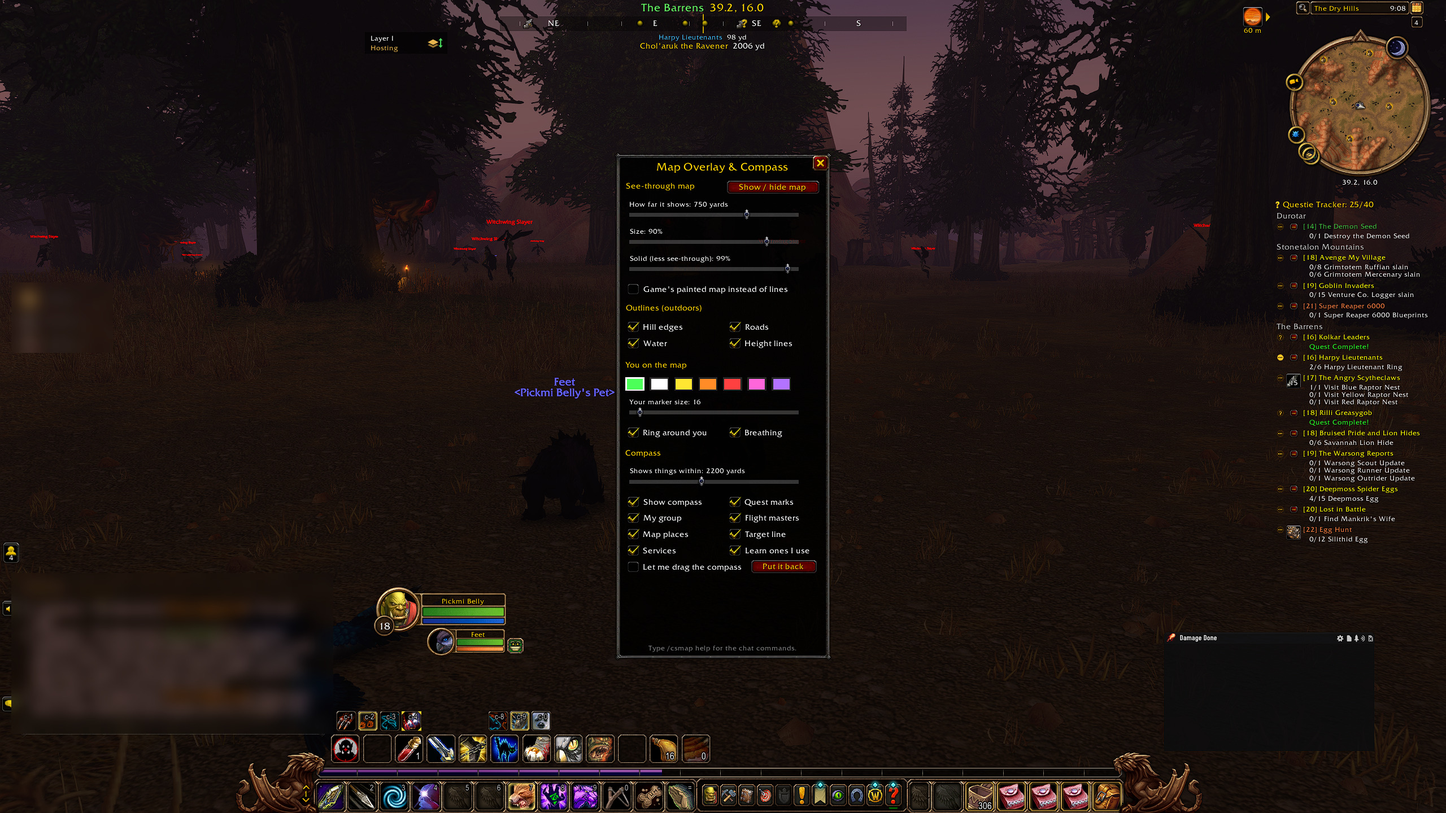
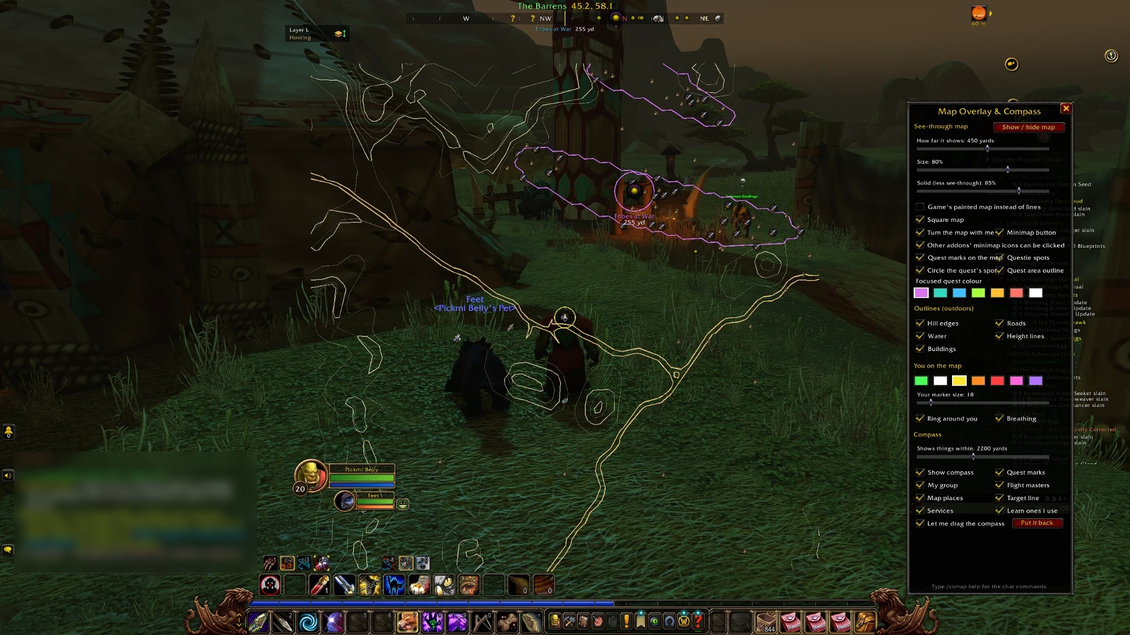
Download page for 0.12.0

diff --git a/README.md b/README.md
@@ -15,34 +15,26 @@ It's also coming to CurseForge as "Map Overlay & Compass"; once it's there, Curs
 
 ## Screenshots
 
-**Outdoors: hills, roads and water as clean lines**, laid over the game. Clicks go straight through to the world.
+**Roads, hills and buildings as clean lines**, laid over the game. Zoomed in to 350 yards in Camp Taurajo you see the
+roads and the outline of every building around you. Clicks go straight through to the world.
 
-![Outlines over the Barrens](screenshots/screenshot-2.jpg)
+![Roads and buildings in Camp Taurajo](screenshots/screenshot-3.jpg)
 
 **Your focused quest's whole area** outlined in your colour, with Questie's own icons for the mobs to kill.
 
-![Quest area and Questie icons](screenshots/screenshot-8.jpg)
+![Quest area and Questie icons](screenshots/screenshot-1.jpg)
 
-**Zoomed in to 350 yards in a camp:** roads and the outlines of the buildings around you.
+**Focus a quest from the map:** double-click or hold its mark.
 
-![Roads and buildings in Camp Taurajo](screenshots/screenshot-10.jpg)
-
-**In a fight** the map stays out of your way, and you can still click your target through it.
-
-![The map during a fight](screenshots/screenshot-7.jpg)
-
-**Zoomed in to 300 yards.** Your focused quest is circled, with its name and distance.
-
-![Zoomed in with a focused quest](screenshots/screenshot-5.jpg)
-
-**The compass bar** with your zone and coordinates, quest marks and what's straight ahead. Drag it anywhere, here
-over the middle of the map.
-
-![The compass over the map](screenshots/screenshot-4.jpg)
+![Focus a quest from the map](screenshots/screenshot-2.jpg)
 
 **Settings window** (`/csmap`): how far, how big, how see-through, which outlines and marks, your own colour.
 
-![Settings window](screenshots/screenshot-1.jpg)
+![Settings window](screenshots/screenshot-4.jpg)
+
+**Without the addon**, for comparison: just the game's small minimap in the corner.
+
+![The same spot without the addon](screenshots/screenshot-5.jpg)
 
 ## Install
 
